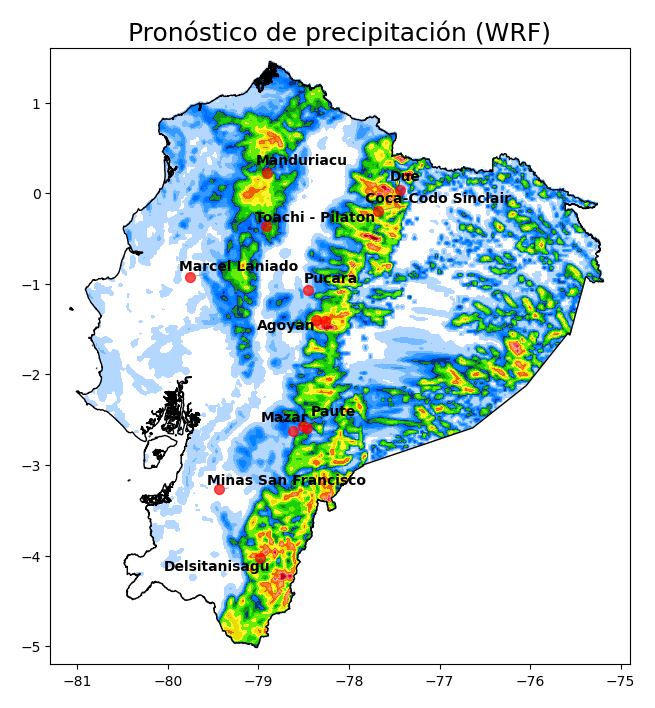
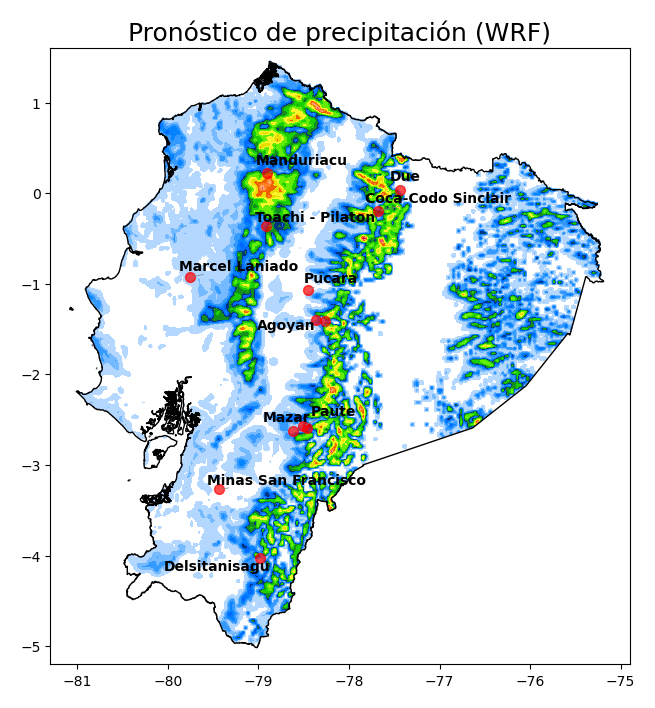
Fixed scale bar

Changed region(s): [[0.1221, 0.0932, 0.916, 0.9322]]

diff --git a/frontend/src/app/views/hydromet-report-tool/hydromet-report-tool.component.ts b/frontend/src/app/views/hydromet-report-tool/hydromet-report-tool.component.ts
@@ -54,7 +54,7 @@ export class HydrometReportToolComponent {
     }
     this.datesDaily = this.formatDates(new Date());
 
-    fetch("/assets/reports/forecast-daily.csv")
+    fetch("/assets/reports/forecast-daily.csv?timestamp=${new Date().getTime()}")
       .then(response => response.text())  // Obtener el texto del CSV
       .then(csvData => {
         const rows = csvData.split('\n');

diff --git a/taskfiles/celec/hydropower_report.py b/taskfiles/celec/hydropower_report.py
@@ -55,10 +55,10 @@ from email import encoders
 ###############################################################################
 #                             COLOR BAR FUNCTIONS                             #
 ###############################################################################
-def color_pacum(pixelValue:float) -> str:
+def color_pacum(pixelValue: float) -> str:
     """
     Returns the corresponding color for a given precipitation value (pixelValue)
-    based on predefined ranges.
+    based on predefined ranges following the XML style.
 
     Parameters:
     pixelValue (float): The precipitation value to determine the color.
@@ -66,61 +66,52 @@ def color_pacum(pixelValue:float) -> str:
     Returns:
     str: The color in hexadecimal format corresponding to the precipitation.
     """
-    if pixelValue == 0:
-        return "none"
-    elif 0.01 <= pixelValue <= 0.5:
-        return "#B4D7FF"
-    elif 0.5 < pixelValue <= 1:
-        return "#75BAFF"
-    elif 1 < pixelValue <= 2:
-        return "#359AFF"
-    elif 2 < pixelValue <= 3:
-        return "#0482FF"
-    elif 3 < pixelValue <= 4:
-        return "#0069FF"
-    elif 4 < pixelValue <= 5:
-        return "#00367F"
-    elif 5 < pixelValue <= 7:
-        return "#148F1B"
-    elif 7 < pixelValue <= 10:
-        return "#1ACF05"
-    elif 10 < pixelValue <= 15:
-        return "#63ED07"
-    elif 15 < pixelValue <= 20:
-        return "#FFF42B"
-    elif 20 < pixelValue <= 25:
-        return "#E8DC00"
-    elif 25 < pixelValue <= 30:
-        return "#F06000"
-    elif 30 < pixelValue <= 35:
-        return "#FF7F27"
-    elif 35 < pixelValue <= 40:
-        return "#FFA66A"
-    elif 40 < pixelValue <= 45:
-        return "#F84E78"
-    elif 45 < pixelValue <= 50:
-        return "#F71E54"
-    elif 50 < pixelValue <= 60:
-        return "#BF0000"
-    elif 60 < pixelValue <= 70:
-        return "#880000"
-    elif 70 < pixelValue <= 80:
-        return "#640000"
-    elif 80 < pixelValue <= 90:
-        return "#C200FB"
-    elif 90 < pixelValue <= 100:
-        return "#DD66FF"
-    elif 100 < pixelValue <= 125:
-        return "#EBA6FF"
-    elif 125 < pixelValue <= 150:
-        return "#F9E6FF"
-    elif 150 < pixelValue <= 300:
-        return "#D4D4D4"
-    elif pixelValue > 300:
-        return "#000000"
+    if pixelValue < 1:
+        return "none"  # Label 1
+    elif 1 <= pixelValue <= 3.75:
+        return "#75baff"  # Label 1.01
+    elif 3.76 <= pixelValue <= 7.5:
+        return "#359aff"  # Label 3.75
+    elif 7.51 <= pixelValue <= 11.25:
+        return "#0087ff"  # Label 7.5
+    elif 11.26 <= pixelValue <= 15:
+        return "#0674C6"  # Label 11.25
+    elif 15.01 <= pixelValue <= 18.75:
+        return "#0C608D"  # Label 15
+    elif 18.76 <= pixelValue <= 22.5:
+        return "#148f1b"  # Label 18.75
+    elif 22.51 <= pixelValue <= 26.25:
+        return "#1acf05"  # Label 22.5
+    elif 26.26 <= pixelValue <= 30:
+        return "#63ed07"  # Label 26.25
+    elif 30.01 <= pixelValue <= 33.75:
+        return "#B1F119"  # Label 30
+    elif 33.76 <= pixelValue <= 37.5:
+        return "#d5f775"  # Label 33.75
+    elif 37.51 <= pixelValue <= 41.25:
+        return "#fff42b"  # Label 37.5
+    elif 41.26 <= pixelValue <= 45:
+        return "#ffcb4d"  # Label 41.25
+    elif 45.01 <= pixelValue <= 48.75:
+        return "#fb9a6f"  # Label 45
+    elif 48.76 <= pixelValue <= 52.5:
+        return "#f96d73"  # Label 48.75
+    elif 52.51 <= pixelValue <= 56.25:
+        return "#f84e78"  # Label 52.5
+    elif 56.26 <= pixelValue <= 60:
+        return "#f71e54"  # Label 56.25
+    elif 60.01 <= pixelValue <= 63.75:
+        return "#bf0000"  # Label 60
+    elif 63.76 <= pixelValue <= 67.5:
+        return "#880000"  # Label 63.75
+    elif 67.51 <= pixelValue <= 71.25:
+        return "#640000"  # Label 67.5
+    elif 71.26 <= pixelValue <= 75:
+        return "#2d0000"  # Label 71.25
+    elif pixelValue > 75:
+        return "#2d0000"  # Label 75 and above
     else:
-        return "none"
-
+        return "none"  # Default case for values not covered
 
 
 ###############################################################################
